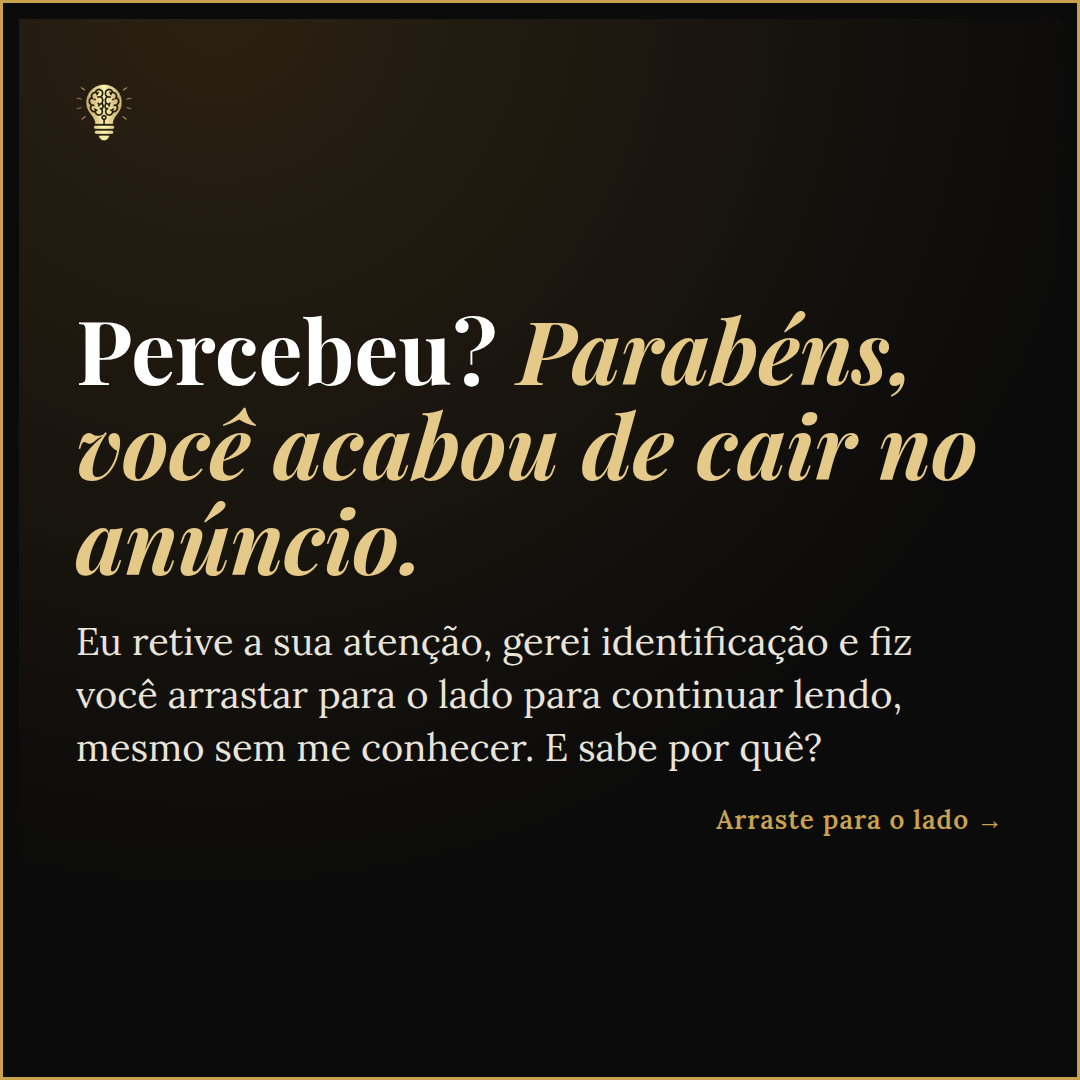
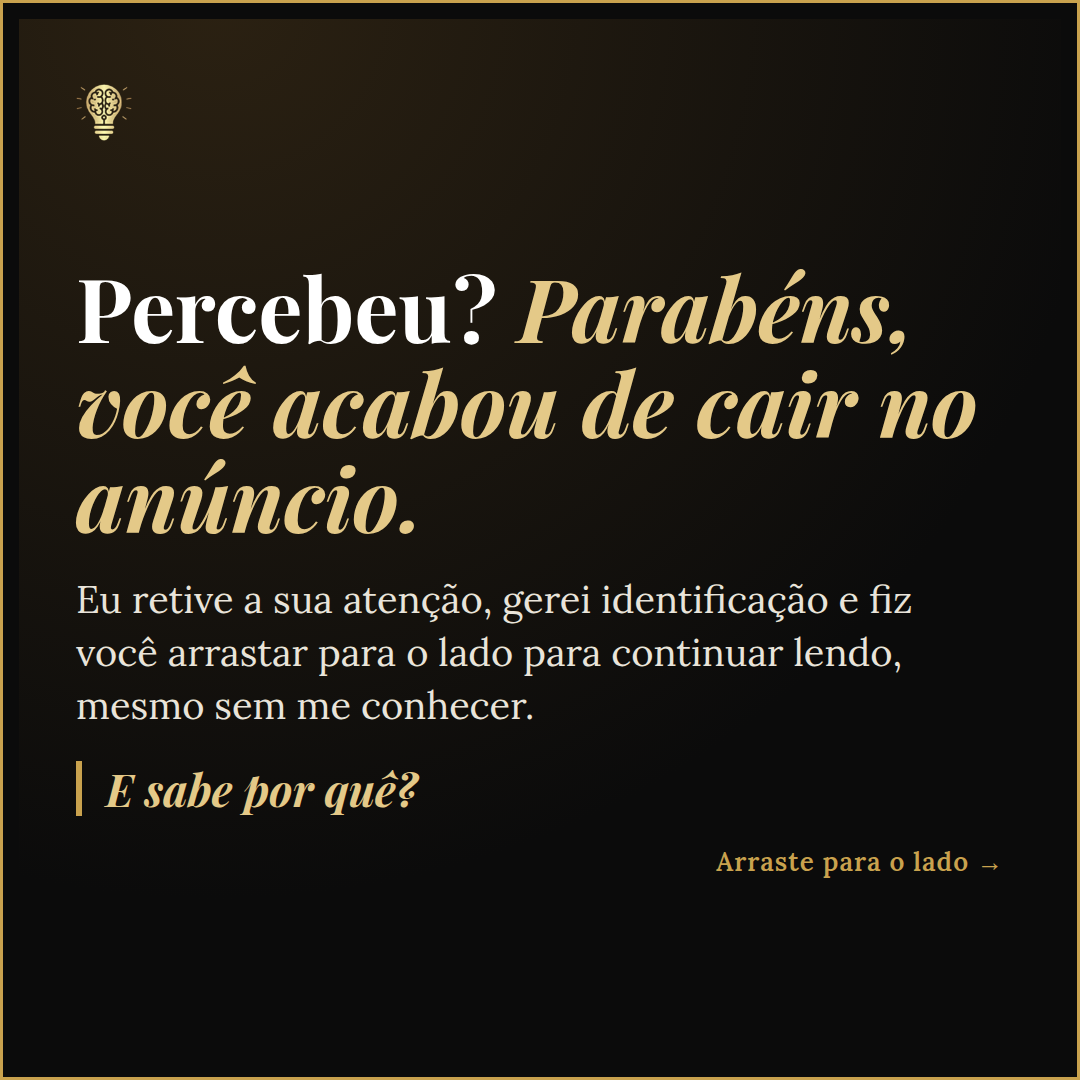
Carrossel Recria Ads: cards 1, 2 e 5 com os textos finais
Claude-Session: https://claude.ai/code/session_01DxpPKgzfVt8WYQSkZW1Msu

Changed region(s): [[0.0611, 0.2444, 0.9167, 0.7639], [0.6722, 0.7333, 0.8861, 0.825]]

diff --git a/recria/criativos-estaticos/gerar-recria-ads.js b/recria/criativos-estaticos/gerar-recria-ads.js
@@ -7,11 +7,11 @@ const FORMATS={
 };
 const ITEMS=[
 ["ads-1-dor","Recria Ads","Você cria conteúdo e anúncio, mas <em>quase ninguém compra</em>?","Isso não é falta de esforço: é que o jeito de vender mudou. Aprenda a criar conteúdo e anúncio sem cara de anúncio e aumente as vendas do seu negócio.","Apenas 12x de R$ 10,03","Quero saber mais",""],
-["ads-2a-historia","","Se você tem um <em>negócio</em>, eu preciso te mostrar uma coisa que pode estar te fazendo perder dinheiro.","Lá atrás, isso que eu vou te contar me fez quebrar dois negócios. Depois que eu descobri e ajustei, tudo mudou…","","","seta1"],
-["ads-2b-revelacao","","Percebeu? <em>Parabéns, você acabou de cair no anúncio.</em>","Eu retive a sua atenção, gerei identificação e fiz você arrastar para o lado para continuar lendo, mesmo sem me conhecer. E sabe por quê?","","","seta"],
+["ads-2a-historia","","Se você tem um <em>negócio</em>, eu preciso te contar uma coisa que pode estar te fazendo perder dinheiro nesse exato momento.","Lá atrás, isso que eu vou te contar me fez quebrar dois negócios. Depois que eu descobri e consegui ajustar, tudo mudou…","","","seta1"],
+["ads-2b-revelacao","","Percebeu? <em>Parabéns, você acabou de cair no anúncio.</em>","Eu retive a sua atenção, gerei identificação e fiz você arrastar para o lado para continuar lendo, mesmo sem me conhecer.||E sabe por quê?","","","seta"],
 ["ads-2c-porque","","Todo mundo pula anúncio <em>com cara de anúncio</em>, mas para por uma boa história.","Uma história bem amarrada aos interesses e desejos de quem lê. É a neurociência: o cérebro presta atenção no que fala dele, do que ele quer e do que o interessa.||E sabe qual é o ponto mais importante disso?","","","seta"],
 ["ads-2d-gancho","","Você vai aprender a parar de criar conteúdo com <em>cara de vendedor chato</em>.","Que é aquele conteúdo que não agrega, não desperta desejo, só joga o preço na cara da pessoa e te faz perder tempo com um anúncio que ninguém vai comprar no fim das contas.||Então, se você está pronto para criar conteúdo e anúncio sem cara de anúncio e aumentar as suas vendas,||você precisa saber o que é crucial para dar esse primeiro passo…","","","seta"],
-["ads-2e-oferta","","Aprenda a criar conteúdos e anúncios <em>sem cara de anúncio</em>, como as grandes marcas.","Adaptando para o seu cenário e para o seu negócio, mesmo que você tenha baixo orçamento ou seja uma empresa pequena. Para saber mais, toque no botão.","","Quero saber mais",""],
+["ads-2e-oferta","","E o seu próximo passo é conhecer o <em>Recria Ads</em>.","Para aprender a criar conteúdos e anúncios sem cara de anúncio, como as grandes marcas já fazem. Adaptado ao seu cenário e ao seu negócio, mesmo que você tenha baixo orçamento ou seja uma empresa pequena. Se interessou? Toque no botão para saber mais.","","Quero saber mais",""],
 ["ads-3-prova","Recria Ads","Aprenda a criar conteúdos que <em>atraem, engajam e vendem</em>. Com leveza.","Olha esse carrossel do meu perfil de yoga: atraí as pessoas, elas se identificaram e comentaram “eu quero”. No direct, continuei a conversa com a oferta do meu curso e vendi. Tudo configurado de forma automatizada. Você também quer aprender?","","Quero saber mais","prova"]
 ];
 function css(f){return `

diff --git a/recria/criativos-estaticos/recria-ads/legendas-recria-ads.md b/recria/criativos-estaticos/recria-ads/legendas-recria-ads.md
@@ -10,7 +10,7 @@ No Recria Ads, você aprende a criar conteúdo e anúncio sem cara de anúncio e
 👉 Clique em "Quero saber mais".
 
 ## Criativo 2, carrossel de 5 cards (ads-2a-historia, 2b-revelacao, 2c-porque, 2d-gancho, 2e-oferta)
-Se você tem um negócio, eu preciso te mostrar uma coisa que pode estar te fazendo perder dinheiro. Lá atrás, isso que eu vou te contar me fez quebrar dois negócios. Depois que eu descobri e ajustei, tudo mudou… 👀
+Se você tem um negócio, eu preciso te contar uma coisa que pode estar te fazendo perder dinheiro nesse exato momento. Lá atrás, isso que eu vou te contar me fez quebrar dois negócios. Depois que eu descobri e consegui ajustar, tudo mudou… 👀
 Arraste para o lado. 👉
 No Recria Ads, você aprende a criar conteúdo e anúncio sem cara de anúncio e vende com leveza e naturalidade, sem parecer aquele vendedor chato.
 👉 Clique em "Quero saber mais".
